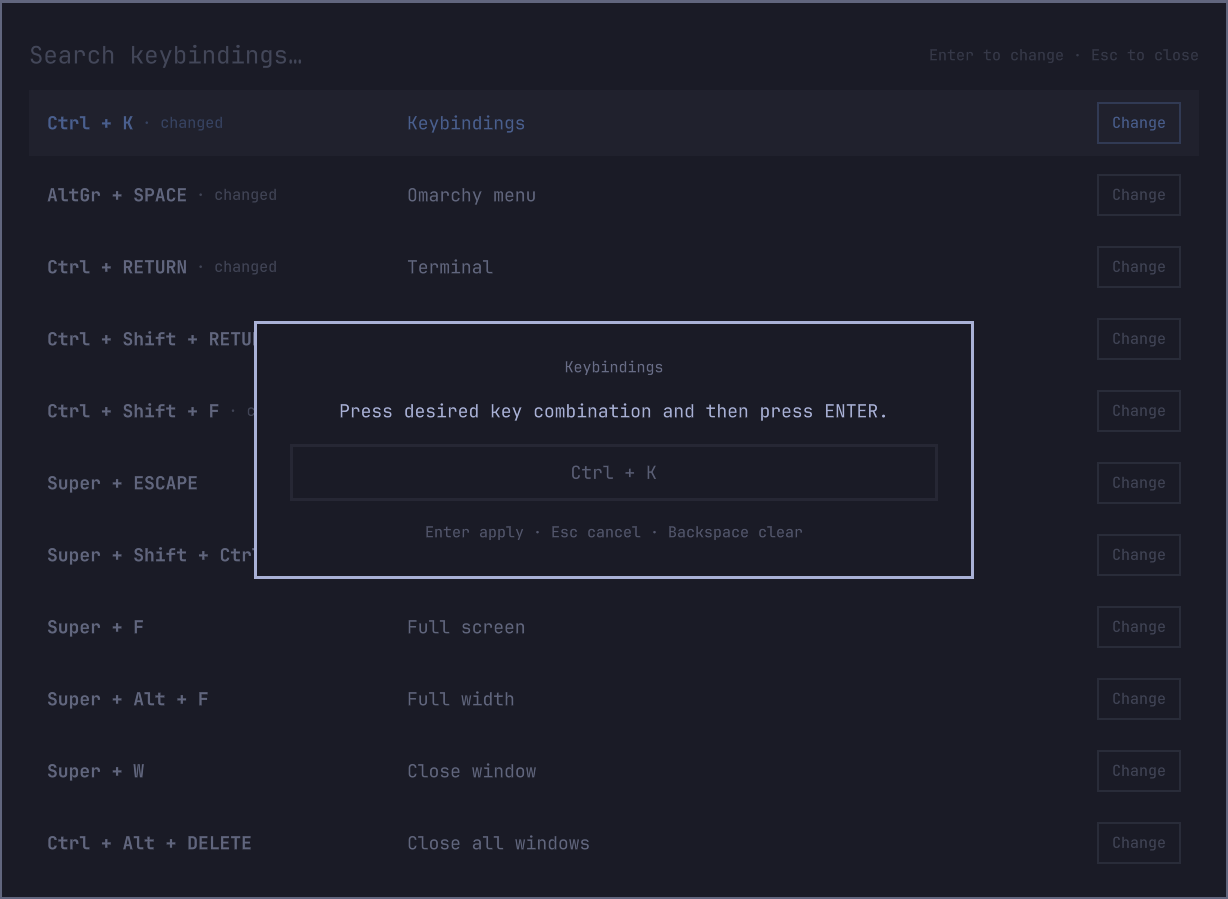
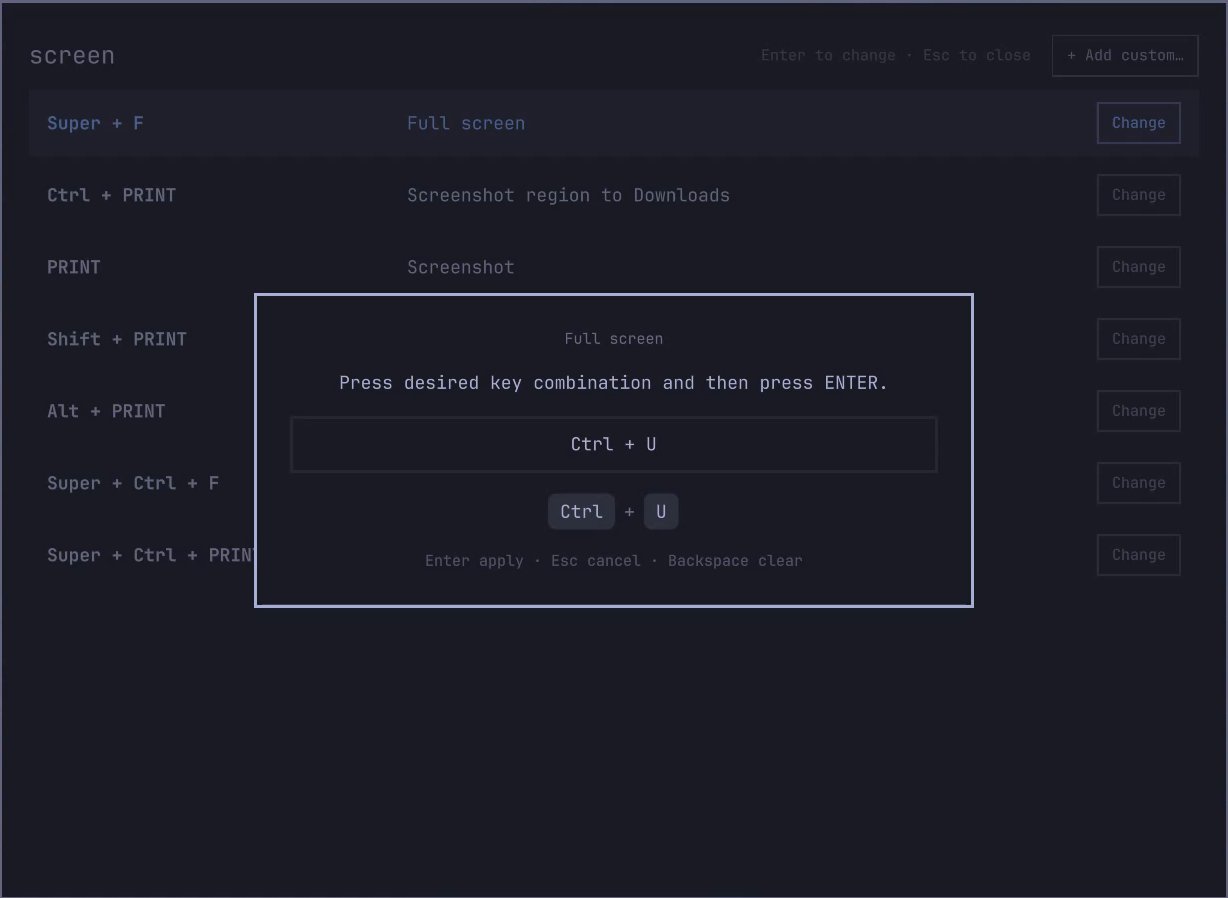
Header add button, Lua string escaping, README media refresh
- Move the add-custom entry from a list footer to a header button
  labeled '+ Add custom…' so it is always visible.
- apply-remap.sh escapes double quotes and backslashes when emitting
  the remap table, per the marketplace review note on issue 3766:
  the generated Lua is now safe by construction.
- README: demo GIF, five current screenshots including reset and
  add-custom dialogs, updated captions and Usage wording, em dashes
  removed throughout.

diff --git a/KeybindEditor.qml b/KeybindEditor.qml
@@ -337,8 +337,8 @@ Item {
       if (KeybindModel.canonicalCombo(root.rows[i].normalized, root.activeSymToCode) === canonical) {
         root.conflictRow = root.rows[i]
         root.conflictText = "Already bound: " + root.rows[i].description
-          + (root.addOpen ? " — press another combination"
-                          : " — Enter overrides and removes it there")
+          + (root.addOpen ? " · press another combination"
+                          : " · Enter overrides and removes it there")
         return
       }
     }
@@ -633,13 +633,44 @@ Item {
 
           Text {
             id: hintText
-            anchors.right: parent.right
+            anchors.right: addButton.left
+            anchors.rightMargin: Style.space(14)
             anchors.verticalCenter: parent.verticalCenter
             text: "Enter to change · Esc to close"
             color: root.foreground
             opacity: 0.4
             font.family: root.fontFamily
             font.pixelSize: Style.font.caption
+          }
+
+          Rectangle {
+            id: addButton
+            anchors.right: parent.right
+            anchors.verticalCenter: parent.verticalCenter
+            width: addLabel.implicitWidth + Style.space(20)
+            height: Math.min(root.headerHeight - Style.space(6), Style.space(28))
+            radius: root.cornerRadius
+            color: addButtonArea.containsMouse ? root.selectedBackground : "transparent"
+            border.color: Util.alpha(root.foreground, 0.4)
+            border.width: 1
+            opacity: addButtonArea.containsMouse ? 1 : 0.7
+
+            Text {
+              id: addLabel
+              anchors.centerIn: parent
+              text: "+ Add custom…"
+              color: addButtonArea.containsMouse ? root.selectedText : root.foreground
+              font.family: root.fontFamily
+              font.pixelSize: Style.font.caption
+            }
+
+            MouseArea {
+              id: addButtonArea
+              anchors.fill: parent
+              hoverEnabled: true
+              cursorShape: Qt.PointingHandCursor
+              onClicked: root.openAdd()
+            }
           }
         }
 
@@ -654,37 +685,6 @@ Item {
             clip: true
             spacing: Style.space(4)
             boundsBehavior: Flickable.StopAtBounds
-
-            footer: Item {
-              width: resultList.width
-              height: root.rowHeight + Style.space(4)
-
-              Rectangle {
-                anchors.fill: parent
-                anchors.topMargin: Style.space(4)
-                radius: root.cornerRadius
-                color: addRowArea.containsMouse ? root.selectedBackground : "transparent"
-
-                Text {
-                  anchors.verticalCenter: parent.verticalCenter
-                  anchors.left: parent.left
-                  anchors.leftMargin: Style.space(12)
-                  text: "+ Add custom keybinding"
-                  color: addRowArea.containsMouse ? root.selectedText : root.foreground
-                  opacity: addRowArea.containsMouse ? 1 : 0.55
-                  font.family: root.fontFamily
-                  font.pixelSize: Style.font.body
-                }
-
-                MouseArea {
-                  id: addRowArea
-                  anchors.fill: parent
-                  hoverEnabled: true
-                  cursorShape: Qt.PointingHandCursor
-                  onClicked: root.openAdd()
-                }
-              }
-            }
 
             delegate: Rectangle {
               id: row

diff --git a/README.md b/README.md
@@ -3,7 +3,8 @@
 An [Omarchy](https://omarchy.org) shell plugin that turns the keybindings
 viewer into an editor. It lists every effective Hyprland binding with a
 **Change** button; press the new combination in a VS Code-style capture
-dialog and the rebind applies immediately — no config editing, no reload.
+dialog and the rebind applies immediately, with no config editing and no
+reload.
 
 - Works on **any** binding, including Omarchy defaults, without knowing what
   the binding does.
@@ -13,6 +14,8 @@ dialog and the rebind applies immediately — no config editing, no reload.
   easy to review, version, or copy to another machine.
 - Capturing a binding's original combo restores the default.
 - The stock read-only menu stays available via `omarchy menu keybindings`.
+
+![Demo: rebinding with conflict override, reset to default, and adding a custom binding](screenshots/demo.gif)
 
 ## Install
 
@@ -42,11 +45,15 @@ config-side hook, its release notes say to re-run `install.sh`.
 
 ## Screenshots
 
-![Keybindings list — every binding gets a Change button; rebound entries are marked "changed"](screenshots/list.png)
+![Keybindings list: every binding gets a Change button; rebound entries are marked "changed"](screenshots/list.png)
 
-![Capture dialog — press the new combination, Enter applies](screenshots/capture.png)
+![Capture dialog: press the new combination, Enter applies](screenshots/capture.png)
 
-![Conflict — the combo is taken; Enter overrides and unbinds it from the other action](screenshots/conflict.png)
+![Conflict: the combo is taken; Enter overrides and unbinds it from the other action](screenshots/conflict.png)
+
+![Reset: hovering a "changed" marker turns it into "reset"; clicking asks for confirmation](screenshots/reset.png)
+
+![Add custom keybinding: combo, description, and command in one dialog](screenshots/add.png)
 
 ## Usage
 
@@ -57,6 +64,13 @@ config-side hook, its release notes say to re-run `install.sh`.
 - An orange warning means the combo is taken; **Enter** overrides and unbinds
   it from the other action.
 - To restore a binding's default, capture its original combination.
+- To restore a binding's default without recapturing it, hover its
+  *changed* marker (it turns into **reset**) and click; a confirmation
+  dialog applies the reset.
+- The **+ Add custom…** button (top right) creates a new binding in three
+  steps: press the combo (taken combos are refused), type a description,
+  type the command. The binding is appended as an `o.bind(...)` line to
+  `~/.config/hypr/bindings.lua`; a failed reload rolls the file back.
 - To restore an overridden (removed) binding, delete its empty-value line in
   `~/.config/hypr/keybind-remaps.lua`.
 
@@ -69,7 +83,7 @@ Three levels, from manual to automatic:
 back and running `hyprctl reload`.
 
 **Version it in a dotfiles repo.** Move the file into your repo and leave a
-symlink behind — the editor writes through the symlink:
+symlink behind; the editor writes through the symlink:
 
 ```bash
 mv ~/.config/hypr/keybind-remaps.lua ~/dotfiles/keybind-remaps.lua
@@ -97,8 +111,8 @@ git -C ~/dotfiles commit -m "keybind remap: $*" --quiet
 ## How it works
 
 Hyprland reports Lua-registered binds without a recoverable action, so
-editing binds by rewriting actions is a dead end. Instead, every binding —
-default or personal — passes through `hl.bind` when the config loads. The
+editing binds by rewriting actions is a dead end. Instead, every binding,
+default or personal, passes through `hl.bind` when the config loads. The
 `install.sh` step adds a small hook, loaded before the Omarchy defaults,
 that wraps `hl.bind`/`hl.unbind` and rewrites combos according to
 `~/.config/hypr/keybind-remaps.lua`. A remap moves a binding without
@@ -116,6 +130,7 @@ matches what Hyprland registered, remaps included.
 | `KeybindModel.js` | Parsing, normalization, ordering, conflict logic |
 | `extract-binds.lua` | Lists effective binds from the Lua config |
 | `apply-remap.sh` | Rewrites the remap table, reloads Hyprland, fires the `keybind-remap` hook |
+| `add-bind.sh` | Appends a custom `o.bind` to `bindings.lua`, validates, rolls back on error |
 | `xkb-symbols.sh` | Keycode/name maps for display and comparison |
 | `hypr/keybind-remap-hook.lua` | The remap layer, installed by `install.sh` |
 
